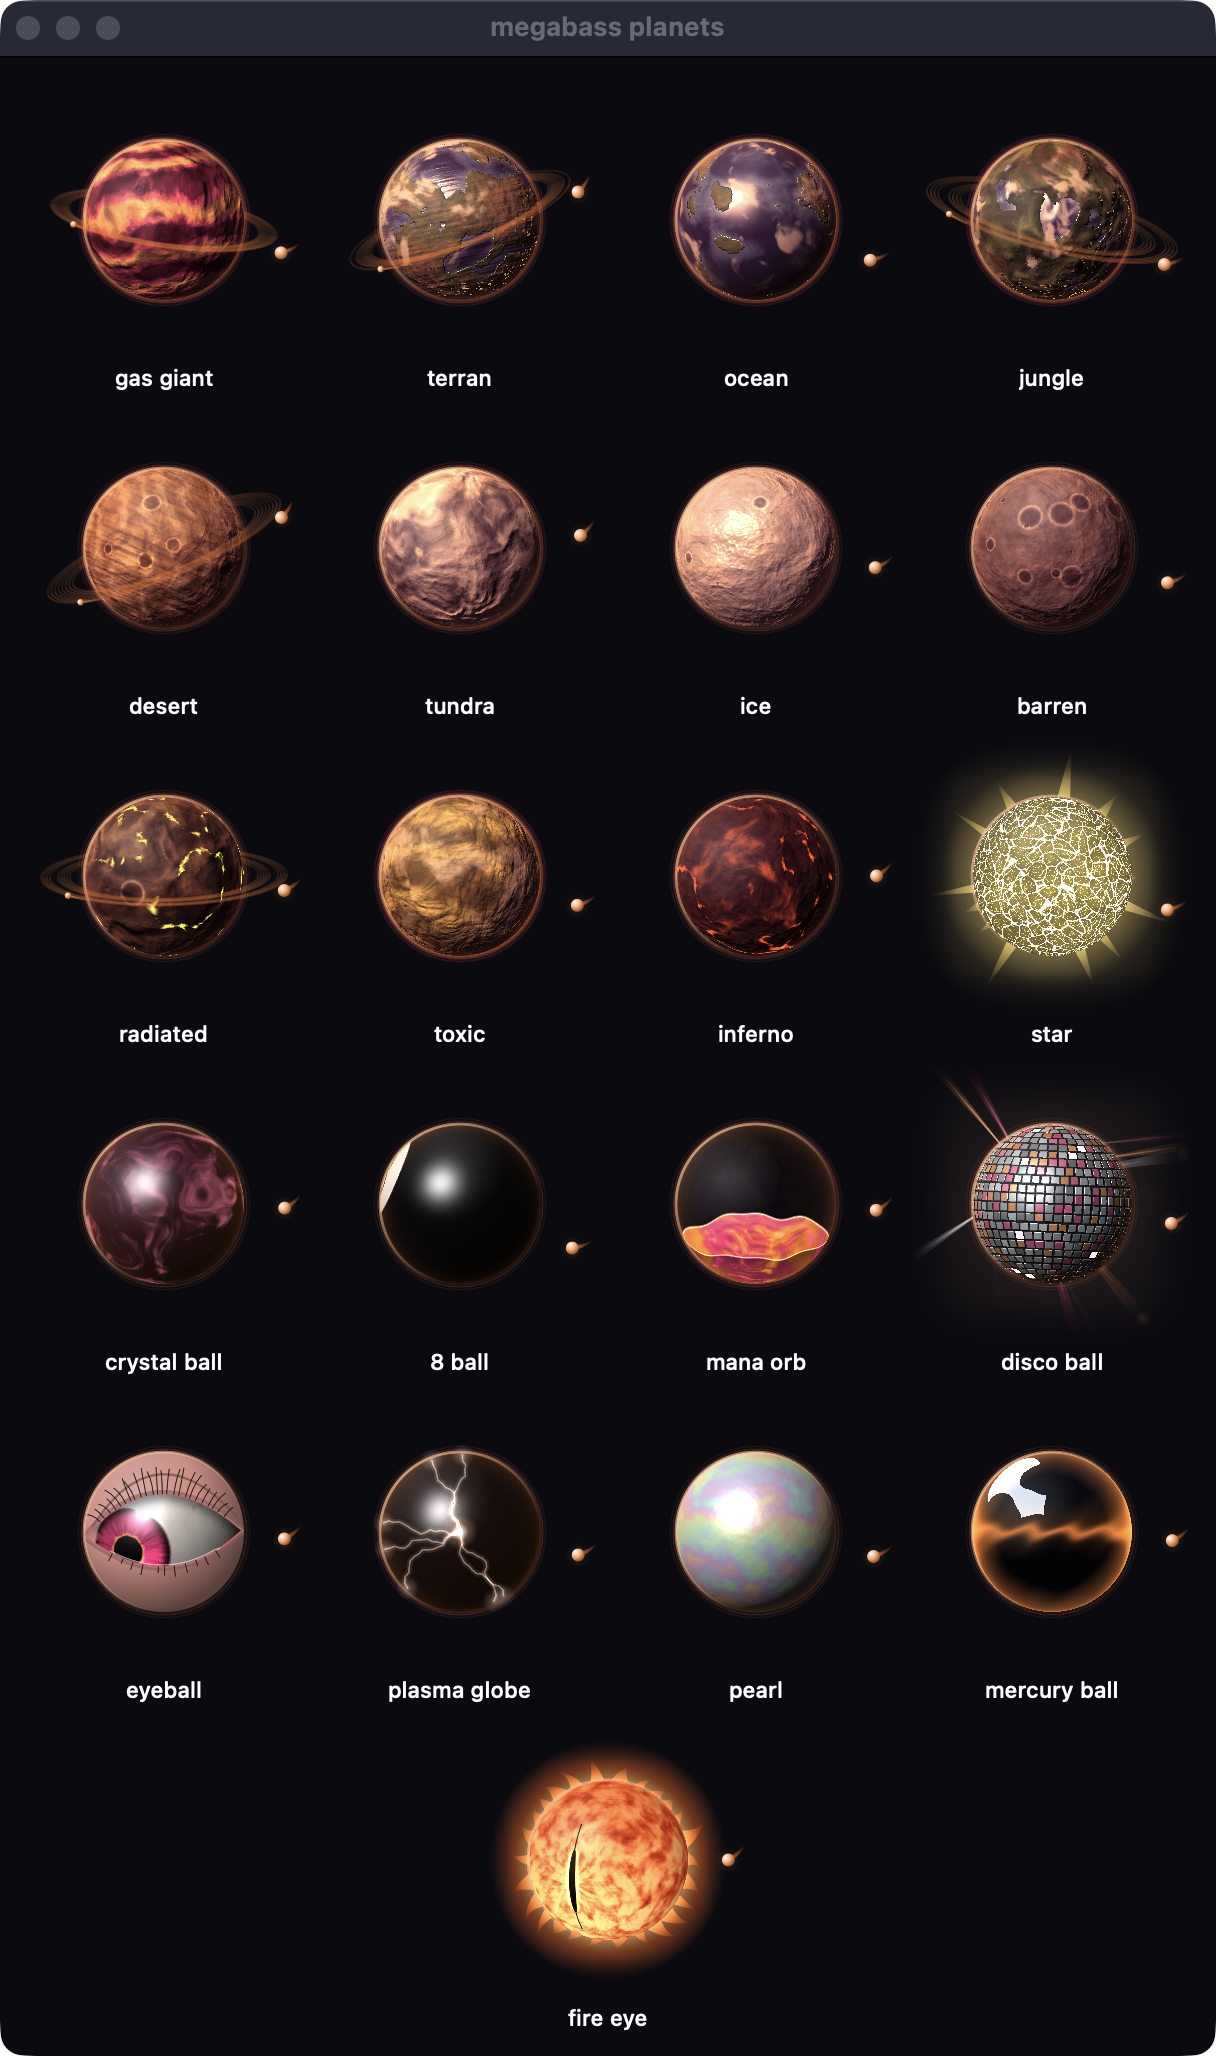
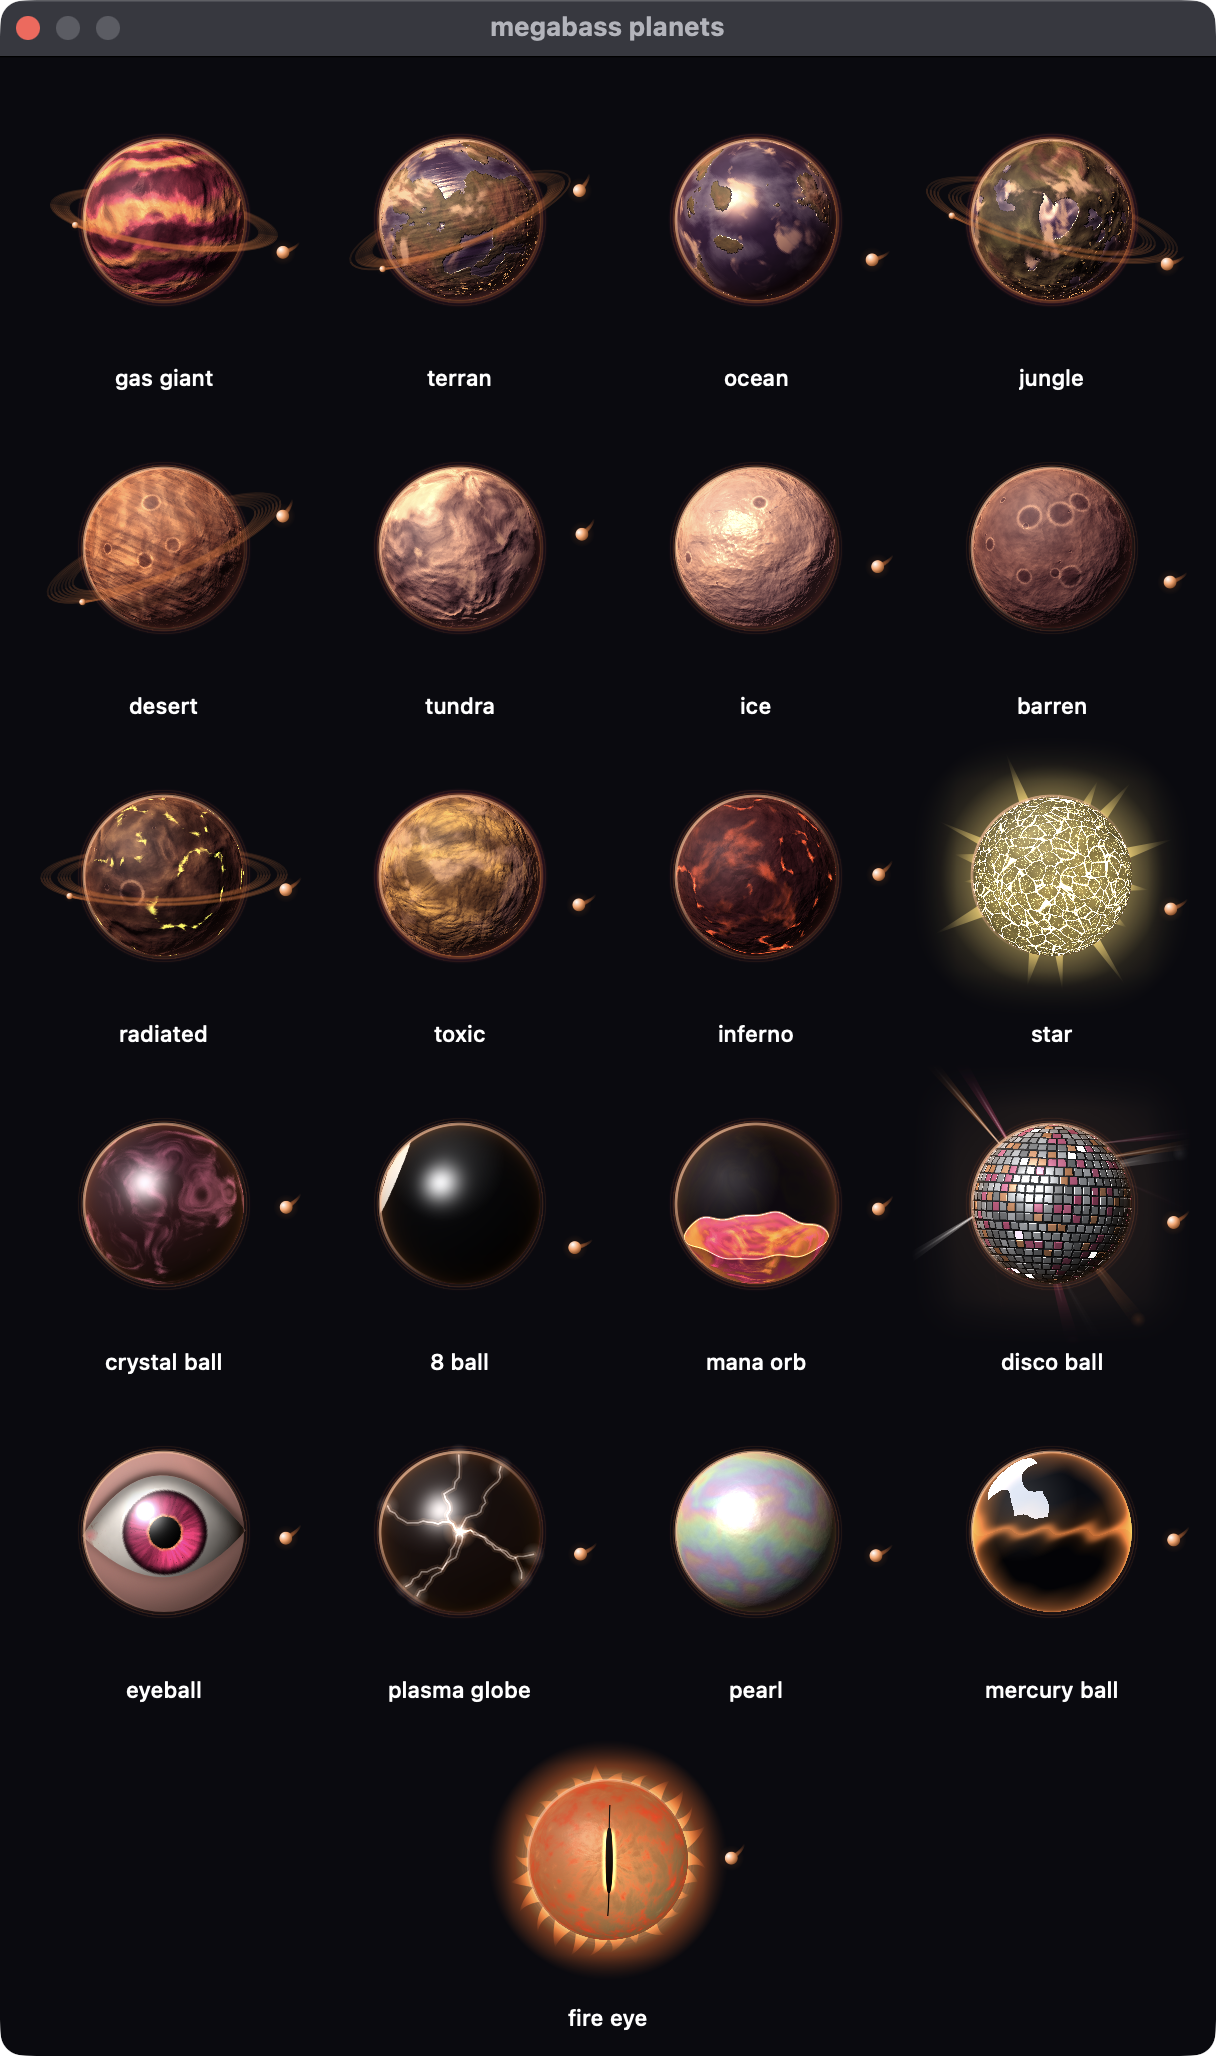
Eyelids, softer and real: retracted lids, soft lash lines, a closing arc, asleep when off
Crisp lashes, crease and margin outlines read as fake at this size; they
are gone. The lids are retracted (a wider opening); lashes are a blurred
dark lash line along the upper margin and a fainter one below; the lid
darkens softly toward its margin. Closing is the upper lid coming down to
meet the lower along a gently curving line in the lower third, as a real
closed eye; fully shut, the skin covers the whole ball (no seam). With
haptics off the eye sleeps (closes over ~0.4 s); on, it opens and blinks.

diff --git a/Sources/MegaBass/PlanetView.swift b/Sources/MegaBass/PlanetView.swift
@@ -673,88 +673,55 @@ struct PlanetView: View, Equatable {
         }
         return out
     }
-    /// Eyelids over the eyeball, simplified from a real eye: an almond opening between the upper and lower
-    /// lids (the upper lid follows the gaze down), skin with a crease, a pink wet margin, the upper lid's
-    /// shadow on the eye, the caruncle at the inner corner, lashes curling out toward the corners, and
-    /// blinks. The eyeball turns underneath, so the iris moves within the opening.
+    /// Eyelids over the eyeball, kept soft (at this size crisp lashes and outlines read as fake): a wide
+    /// almond opening between retracted lids (the upper lid follows the gaze down), skin rounded by the
+    /// light, a blurred lash line along the upper margin and a fainter one below, the upper lid's shadow
+    /// on the eye, the caruncle at the inner corner, and blinks. The eyeball turns underneath.
     private func drawLids(_ ctx: GraphicsContext, c: CGPoint, R: Double, on: Bool, kick: Double, t: Double, hot: Color) {
-        let open = EyeBlink.shared.step(t: t, kick: kick)
+        // Off: the eye sleeps (closes over ~0.4 s); on: it opens and blinks.
+        let open = EyeBlink.shared.step(t: t, kick: kick, awake: on)
         let gaze = EyeLook.shared.pitch
-        let inner = CGPoint(x: c.x - R * 0.98, y: c.y + R * 0.06), outer = CGPoint(x: c.x + R * 0.98, y: c.y - R * 0.02)
+        let inner = CGPoint(x: c.x - R * 1.02, y: c.y + R * 0.05), outer = CGPoint(x: c.x + R * 1.02, y: c.y - R * 0.02)
         let mid = CGPoint(x: (inner.x + outer.x) / 2, y: (inner.y + outer.y) / 2)
-        let upCtl = CGPoint(x: c.x - R * 0.1, y: mid.y + (-R * 1.1 + gaze * R * 0.5) * open)
-        let lowCtl = CGPoint(x: c.x + R * 0.05, y: mid.y + (R * 0.8 + gaze * R * 0.15) * open)
+        // Closing is mostly the upper lid coming down to meet the lower one, along a line that curves
+        // gently down in the lower third (as a real closed eye does).
+        let shut = mid.y + R * 0.5
+        let upCtl = CGPoint(x: c.x - R * 0.1, y: shut + (mid.y - R * 1.45 + gaze * R * 0.5 - shut) * open)
+        let lowCtl = CGPoint(x: c.x + R * 0.05, y: shut + (mid.y + R * 1.1 + gaze * R * 0.15 - shut) * open)
         var opening = Path()
         opening.move(to: inner); opening.addQuadCurve(to: outer, control: upCtl); opening.addQuadCurve(to: inner, control: lowCtl)
+        var upper = Path()
+        upper.move(to: inner); upper.addQuadCurve(to: outer, control: upCtl)
+        var lower = Path()
+        lower.move(to: outer); lower.addQuadCurve(to: inner, control: lowCtl)
         let disc = Path(ellipseIn: CGRect(x: c.x - R, y: c.y - R, width: R * 2, height: R * 2))
-        func onUpper(_ u: Double) -> CGPoint {
-            let a = (1 - u) * (1 - u), b = 2 * (1 - u) * u, d = u * u
-            return CGPoint(x: a * inner.x + b * upCtl.x + d * outer.x, y: a * inner.y + b * upCtl.y + d * outer.y)
-        }
-        func onLower(_ u: Double) -> CGPoint {
-            let a = (1 - u) * (1 - u), b = 2 * (1 - u) * u, d = u * u
-            return CGPoint(x: a * outer.x + b * lowCtl.x + d * inner.x, y: a * outer.y + b * lowCtl.y + d * inner.y)
-        }
-        // The upper lid's shadow on the eyeball, just under its margin.
-        var shade = ctx
-        shade.clip(to: opening)
-        shade.addFilter(.blur(radius: R * 0.06))
-        var lidEdge = Path()
-        lidEdge.move(to: inner); lidEdge.addQuadCurve(to: outer, control: upCtl)
-        shade.stroke(lidEdge, with: .color(.black.opacity(0.5)), lineWidth: R * 0.16)
-        // Caruncle: the pink fold at the inner corner.
+        // The upper lid's soft shadow on the eyeball, and the pink caruncle at the inner corner.
+        var eye = ctx
+        eye.clip(to: opening)
+        var shade = eye
+        shade.addFilter(.blur(radius: R * 0.07))
+        shade.stroke(upper, with: .color(.black.opacity(0.45)), lineWidth: R * 0.18)
         let car = CGPoint(x: inner.x + R * 0.1, y: inner.y - R * 0.01)
-        var carC = ctx
-        carC.clip(to: opening)
-        carC.fill(Path(ellipseIn: CGRect(x: car.x - R * 0.09, y: car.y - R * 0.07, width: R * 0.18, height: R * 0.14)),
-                  with: .radialGradient(Gradient(colors: [Color(red: 0.86, green: 0.45, blue: 0.48), Color(red: 0.86, green: 0.45, blue: 0.48).opacity(0)]),
-                                        center: car, startRadius: 0, endRadius: R * 0.1))
-        // Skin: everything on the ball outside the opening, rounded by the light from the top left.
+        eye.fill(Path(ellipseIn: CGRect(x: car.x - R * 0.1, y: car.y - R * 0.08, width: R * 0.2, height: R * 0.16)),
+                 with: .radialGradient(Gradient(colors: [Color(red: 0.86, green: 0.47, blue: 0.48).opacity(0.85), Color(red: 0.86, green: 0.47, blue: 0.48).opacity(0)]),
+                                       center: car, startRadius: 0, endRadius: R * 0.1))
+        // Skin: the ball outside the opening, rounded by the light from the top left.
         let skin = on ? mix(Color(red: 0.8, green: 0.6, blue: 0.52), hot, 0.12) : Color(white: 0.42)
         var lids = disc
-        lids.addPath(opening)
-        var sk = ctx
-        sk.fill(lids, with: .radialGradient(Gradient(colors: [mix(skin, .white, 0.25), skin, mix(skin, .black, 0.55)]),
-                                            center: CGPoint(x: c.x - R * 0.35, y: c.y - R * 0.45), startRadius: 0, endRadius: R * 1.5),
-                style: FillStyle(eoFill: true))
-        sk.clip(to: lids, style: FillStyle(eoFill: true))
-        // The crease above the upper lid, and the lid thickness darkening toward the margin.
-        var crease = Path()
-        crease.move(to: CGPoint(x: inner.x + R * 0.08, y: inner.y - R * 0.12))
-        crease.addQuadCurve(to: CGPoint(x: outer.x - R * 0.06, y: outer.y - R * 0.16),
-                            control: CGPoint(x: upCtl.x, y: min(upCtl.y, mid.y - R * 0.9) - R * 0.35))
-        sk.stroke(crease, with: .color(mix(skin, .black, 0.45).opacity(0.7)), lineWidth: R * 0.03)
-        sk.stroke(opening, with: .color(mix(skin, .black, 0.35).opacity(0.6)), lineWidth: R * 0.1)
-        // The margins: pink, with a wet glint along the lower one.
-        ctx.stroke(opening, with: .color(Color(red: 0.78, green: 0.42, blue: 0.42).opacity(0.85)), lineWidth: max(0.8, R * 0.025))
-        var wet = Path()
-        for k in 0...20 { let p = onLower(0.15 + 0.7 * Double(k) / 20); if k == 0 { wet.move(to: p) } else { wet.addLine(to: CGPoint(x: p.x, y: p.y - R * 0.025)) } }
-        ctx.stroke(wet, with: .color(.white.opacity(on ? 0.55 : 0.25)), lineWidth: 0.6)
-        // Lashes: longest mid-lid, curling out toward the corners; fewer and shorter below.
-        let lashColor = Color(red: 0.08, green: 0.05, blue: 0.04)
-        var lashes = Path()
-        func jitter(_ k: Int, _ salt: Double) -> Double { let x = sin(Double(k) * 12.9898 + salt) * 43758.5453; return x - floor(x) }
-        for k in 0..<24 {
-            let u = 0.1 + 0.8 * (Double(k) + 0.6 * (jitter(k, 1) - 0.5)) / 23
-            let p = onUpper(u), q = onUpper(min(1, u + 0.01))
-            let tx = q.x - p.x, ty = q.y - p.y, tl = max(0.001, hypot(tx, ty))
-            let nx = ty / tl, ny = -tx / tl                                  // away from the eye (up)
-            let len = R * (0.1 + 0.16 * sin(.pi * u)) * (0.75 + 0.5 * jitter(k, 2))
-            let curl = (u - 0.5) * 0.9 + (jitter(k, 3) - 0.5) * 0.35
-            let tip = CGPoint(x: p.x + nx * len + tx / tl * len * curl, y: p.y + ny * len + ty / tl * len * curl - len * 0.15)
-            lashes.move(to: p)
-            lashes.addQuadCurve(to: tip, control: CGPoint(x: p.x + nx * len * 0.7, y: p.y + ny * len * 0.7))
-        }
-        for k in 0..<11 {
-            let u = 0.18 + 0.64 * (Double(k) + 0.6 * (jitter(k, 4) - 0.5)) / 10
-            let p = onLower(u), q = onLower(min(1, u + 0.01))
-            let tx = q.x - p.x, ty = q.y - p.y, tl = max(0.001, hypot(tx, ty))
-            let nx = ty / tl, ny = -tx / tl                                  // away from the eye (down)
-            let len = R * (0.05 + 0.05 * sin(.pi * u)) * (0.7 + 0.6 * jitter(k, 5))
-            lashes.move(to: p)
-            lashes.addLine(to: CGPoint(x: p.x + nx * len, y: p.y + ny * len))
-        }
-        ctx.stroke(lashes, with: .color(lashColor.opacity(0.8)), style: StrokeStyle(lineWidth: max(0.5, R * 0.014), lineCap: .round))
+        if open > 0.03 { lids.addPath(opening) }                    // shut: no sliver of eye through the seam
+        ctx.fill(lids, with: .radialGradient(Gradient(colors: [mix(skin, .white, 0.22), skin, mix(skin, .black, 0.5)]),
+                                             center: CGPoint(x: c.x - R * 0.35, y: c.y - R * 0.45), startRadius: 0, endRadius: R * 1.5),
+                 style: FillStyle(eoFill: true))
+        // Lash lines: soft and blurred, as lashes read at a glance; the lid darkens toward its margin.
+        var lash = ctx
+        lash.clip(to: lids, style: FillStyle(eoFill: true))
+        lash.addFilter(.blur(radius: R * 0.035))
+        lash.stroke(upper, with: .color(Color(red: 0.07, green: 0.04, blue: 0.03).opacity(0.75)), lineWidth: R * 0.09)
+        lash.stroke(lower, with: .color(Color(red: 0.07, green: 0.04, blue: 0.03).opacity(0.3)), lineWidth: R * 0.05)
+        var fold = ctx
+        fold.clip(to: lids, style: FillStyle(eoFill: true))
+        fold.addFilter(.blur(radius: R * 0.08))
+        fold.stroke(opening, with: .color(mix(skin, .black, 0.4).opacity(0.45)), lineWidth: R * 0.2)
     }
 
     /// A jagged bolt from `a` to `b`: four rounds of midpoint displacement, halving each round.
@@ -1026,9 +993,16 @@ final class ManaSlosh {
 @MainActor
 final class EyeBlink {
     static let shared = EyeBlink()
-    private var next = 0.0, started = -10.0, lastKick = 0.0
+    private var next = 0.0, started = -10.0, lastKick = 0.0, wake = 1.0, last = 0.0
 
-    func step(t: Double, kick: Double) -> Double {
+    func step(t: Double, kick: Double, awake: Bool = true) -> Double {
+        let dt = last == 0 ? 0 : min(0.1, t - last)
+        last = t
+        wake += ((awake ? 1 : 0) - wake) * min(1, dt / 0.15)                     // ~0.4 s to close or open
+        return wake * blink(t: t, kick: kick)
+    }
+
+    private func blink(t: Double, kick: Double) -> Double {
         if next == 0 { next = t + Double.random(in: 1...3) }
         if kick > lastKick + 0.5 && kick > 0.8 && Double.random(in: 0...1) < 0.3 { next = min(next, t) }
         lastKick = kick
